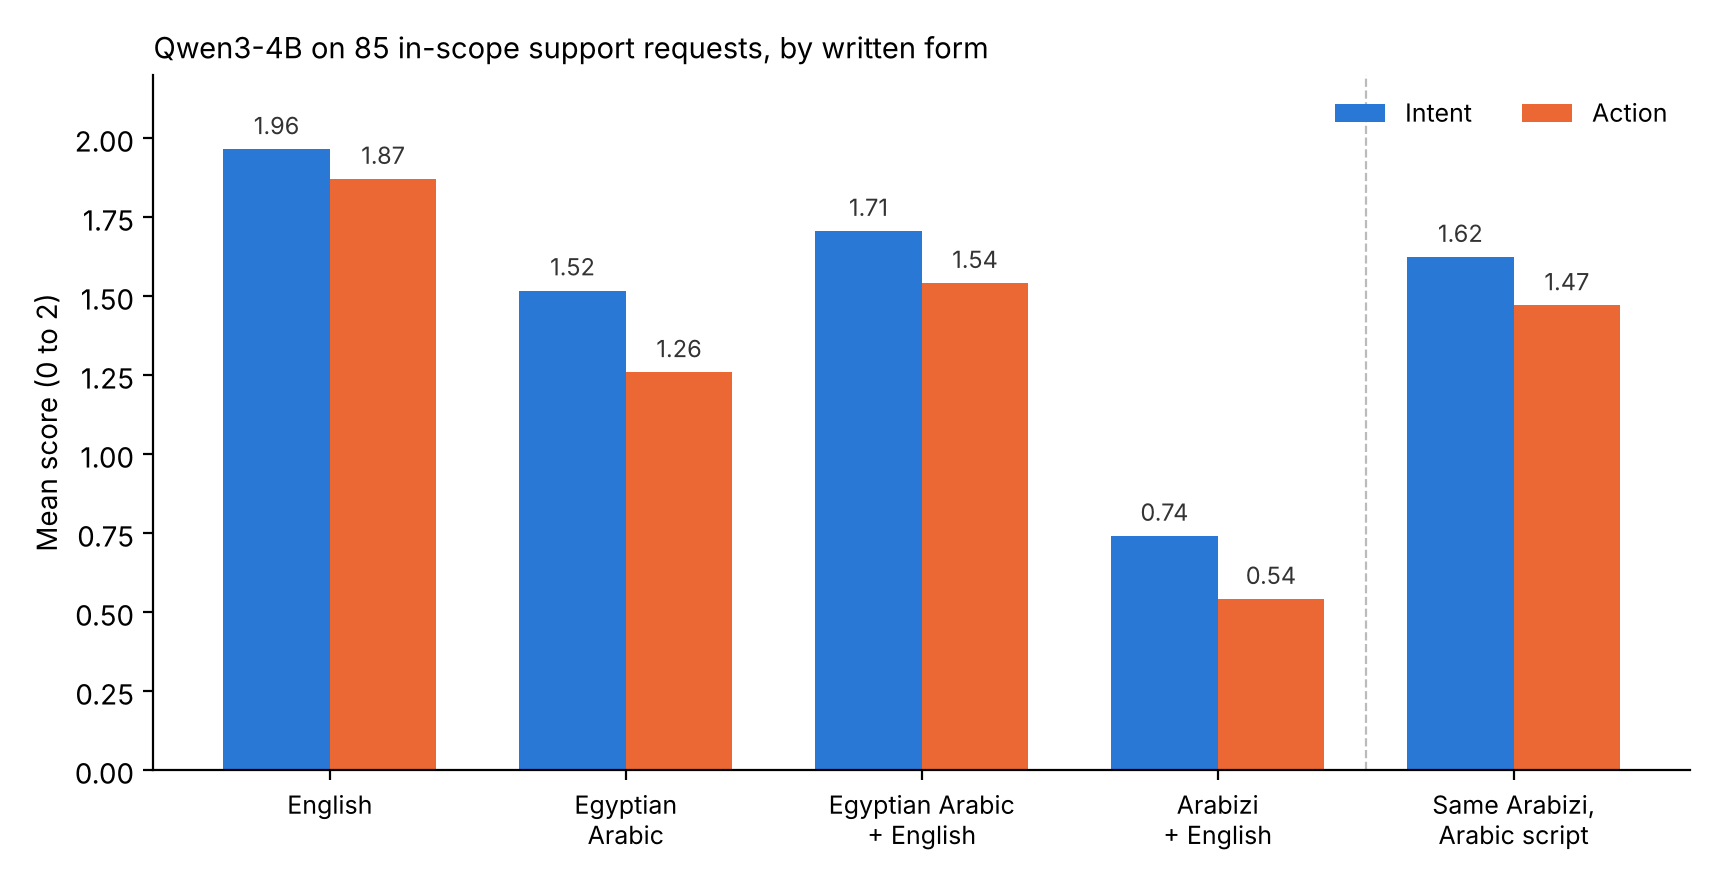
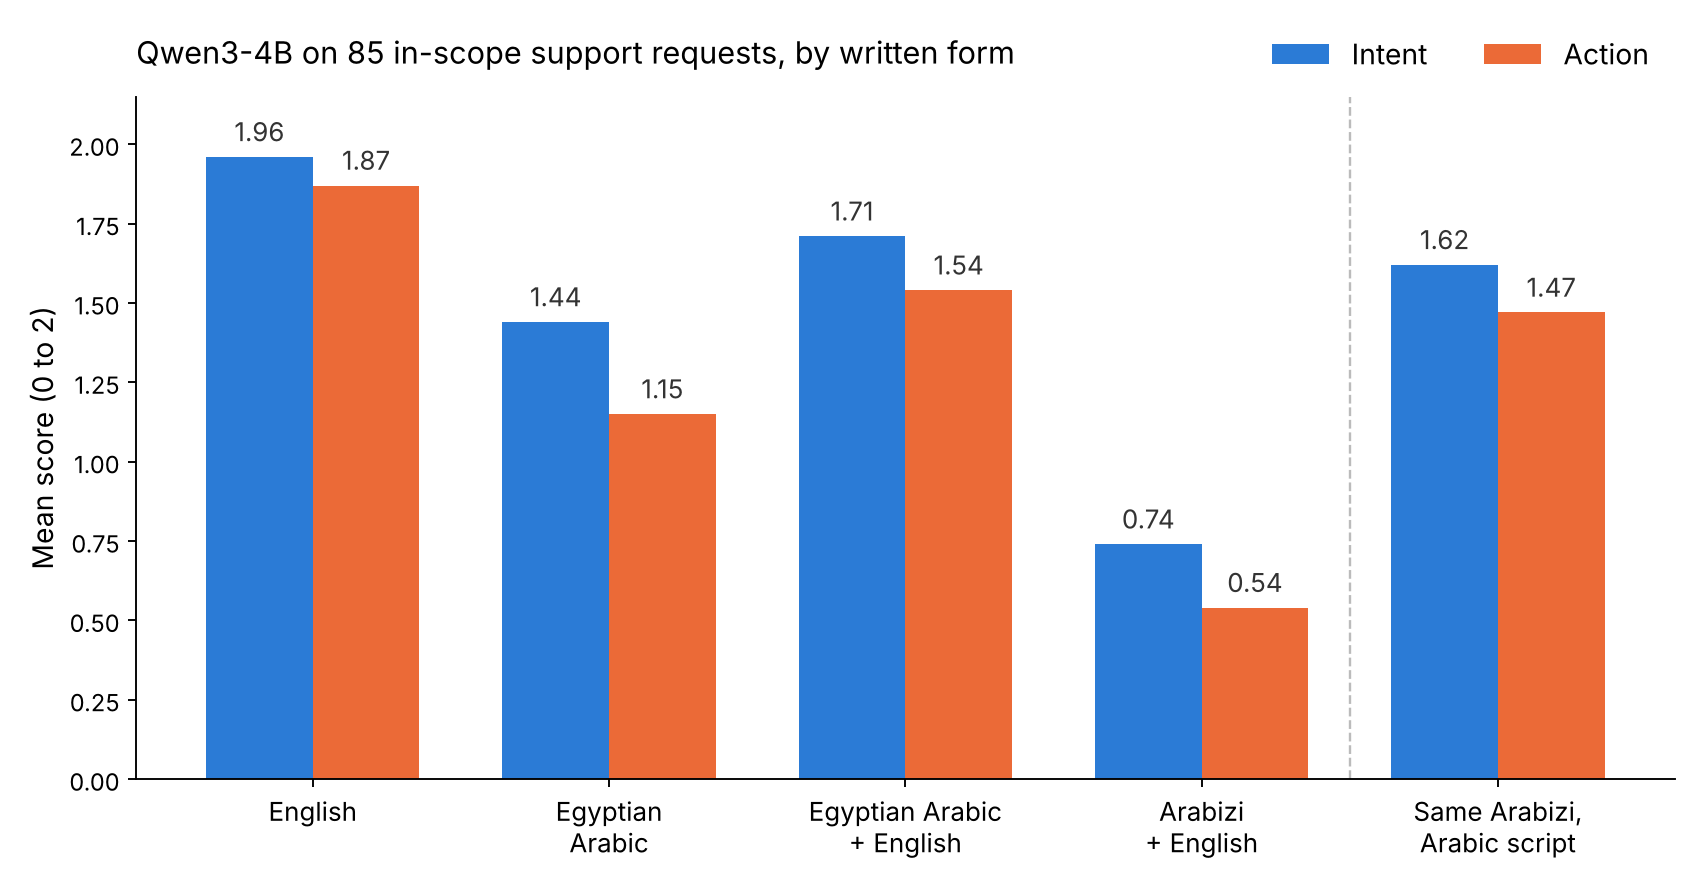
Phase 2: Update results after rewriting 14 Egyptian Arabic prompts; add statistics (v1.2)

diff --git a/README.md b/README.md
@@ -6,7 +6,9 @@
 
 A 400-example benchmark that writes the same 100 customer-support requests in four forms of everyday Egyptian communication, used to test whether a language model keeps the same understanding of a request when only its written form changes. It comes with the responses of [Qwen/Qwen3-4B-Instruct-2507](https://huggingface.co/Qwen/Qwen3-4B-Instruct-2507), their scores, and a follow-up test that rewrites the Arabizi requests in Arabic script.
 
-**Author:** Nouran Mohamed El-Sayed (Ain Shams University, Cairo) · **Created:** October 2026 · **Results last revised:** 18 October 2026
+**Author:** Nouran Mohamed El-Sayed (Ain Shams University, Cairo) · **Created:** October 2026 · **Results last revised:** 15 November 2026
+
+> **Update (15 November 2026).** Fourteen "Egyptian Arabic" prompts had English words in Latin letters (for example "refund", "sync", "tracking"), so that condition was not purely in Arabic script. They were rewritten with the same English words in Arabic letters (ريفاند، سينك، التراكر), run again with the same model and settings, and scored again. The earlier prompts, answers and scores are kept in the `_v1` columns of `data/results_400.csv`. Egyptian Arabic scores fell (in-scope intent from 1.52 to 1.44, action from 1.26 to 1.15); no other condition changed. The difficulty of scenarios S046 and S050 was corrected from `high` to `medium`, and a missing urgency label (E020) in `data/benchmark_400_prompts.csv` was restored.
 
 > **Correction (18 October 2026).** An earlier version of this repository reported results from a spreadsheet in which most model responses could not be traced to the prompts they sat next to: 219 of the 400 responses were exact copies of another row's response, and many belonged to a different prompt. Those results, including an Arabizi intent score of 0.34 and a failure breakdown dominated by "Welsh or Portuguese" and "AWS App Mesh" readings, are withdrawn. All 400 prompts were run again with the same model and settings, and every response was scored again. The tables below come from that run.
 
@@ -27,6 +29,7 @@ The idea grew out of a mentorship with Prof. Ahmed Hassan Yousef (https://schola
 | Egyptian Arabic + English terms | ممكن تبصلي ليه الـ order stuck؟ |
 | Arabizi + English terms | momken tebosly leh el order stuck? |
 
+- **Scripts:** the Egyptian Arabic condition uses Arabic script only; English loanwords are written in Arabic letters, as Egyptians often write them (الأوردر، ريفاند). The other two Egyptian conditions keep English terms in Latin letters.
 - **Scope:** 85 in-scope operational scenarios (orders, delivery, returns, refunds, payments, promotions, pricing, accounts, account security, subscriptions, app sync, rewards and more) and 15 out-of-scope requests (for example legal, medical or creative requests) that a support assistant should not try to fulfil.
 - **Difficulty:** easy, medium and hard, plus edge cases such as typos, missing punctuation, abbreviations, sarcasm, emotional tone, several issues in one message, letter elongation and mixed script.
 - **Gold labels per scenario:** intended issue (`gold_intent`), urgency, the expected next action, and a forbidden assumption the model must not make (for example "Never request the customer's OTP").
@@ -37,17 +40,24 @@ The idea grew out of a mentorship with Prof. Ahmed Hassan Yousef (https://schola
 data/
   benchmark_400_prompts.csv       the 400 prompts and gold labels
   results_400.csv                 prompts + model responses + scores + response type
+                                  (_v1 columns: earlier versions of the 14 rewritten prompts)
   q1_transliteration_sheet.csv    the 100 Arabizi requests rewritten word for word in Arabic script
   q1_script_test_results.csv      the model's answers to those rewritten requests, with scores
+  arabizi_spelling_variants_draft.csv   alternative Arabizi spellings for a planned test (not yet checked)
 notebooks/
   qwen3_4b_egyptian_arabic_evaluation.ipynb   builds the benchmark, runs the model, summarizes scores
+  extensions.ipynb                code for the planned follow-up experiments (see Next steps)
 scripts/
-  summarize.py                    recomputes every number in this README
+  summarize.py                    recomputes every table in this README
+  stats.py                        confidence intervals and paired significance tests
+  make_annotation_sheet.py        builds a blinded sheet for re-scoring a sample
+  agreement.py                    agreement between two sets of scores (Cohen's kappa)
+  make_spelling_variants.py       builds the spelling-variants draft
 figures/
   results_by_condition.png
 ```
 
-To reproduce the tables: `pip install pandas` then `python scripts/summarize.py`.
+To reproduce the tables: `pip install pandas` then `python scripts/summarize.py`. For the intervals and tests: `pip install pandas numpy scipy` then `python scripts/stats.py`.
 
 ## Evaluation setup
 
@@ -69,23 +79,48 @@ Because there is no system prompt, the model has no way of knowing that it is me
 | Condition | Intent | Action | Unsupported actions |
 |---|---|---|---|
 | English | 1.96 | 1.87 | 1 |
-| Egyptian Arabic | 1.52 | 1.26 | 1 |
+| Egyptian Arabic | 1.44 | 1.15 | 1 |
 | Egyptian Arabic + English | 1.71 | 1.54 | 0 |
 | Arabizi + English | 0.74 | 0.54 | 0 |
 | *Arabizi + English, rewritten in Arabic script* | *1.62* | *1.47* | *0* |
 
-In English the model almost always understood the request. In Egyptian Arabic written in Arabic script it dropped, and adding English terms helped a little. In Arabizi it understood far fewer requests: it got the intent fully right for 15 of the 85, and for 37 it got it completely wrong.
+In English the model almost always understood the request. In Egyptian Arabic written fully in Arabic script it dropped, and keeping the English terms in Latin letters helped: intent rose from 1.44 to 1.71. In Arabizi it understood far fewer requests: it got the intent fully right for 15 of the 85, and for 37 it got it completely wrong.
+
+### How sure are these numbers?
+
+Each scenario appears in every condition, so conditions can be compared scenario by scenario. Intervals are 95% bootstrap intervals over the 85 in-scope scenarios; p-values are Wilcoxon signed-rank tests, Holm-corrected within each score.
+
+| Condition | Intent | Action | Intent fully correct |
+|---|---|---|---|
+| English | 1.96 [1.92, 2.00] | 1.87 [1.78, 1.94] | 96% |
+| Egyptian Arabic | 1.44 [1.27, 1.59] | 1.15 [0.96, 1.33] | 60% |
+| Egyptian Arabic + English | 1.71 [1.58, 1.82] | 1.54 [1.39, 1.68] | 76% |
+| Arabizi + English | 0.74 [0.59, 0.91] | 0.54 [0.39, 0.71] | 18% |
+| *Arabizi + English, rewritten in Arabic script* | *1.62 [1.48, 1.75]* | *1.47 [1.31, 1.62]* | *73%* |
+
+- **Arabizi against its Arabic-script rewrite:** intent +0.88 [+0.71, +1.06], higher in 54 scenarios and lower in 2 (p < 0.001); action +0.93 [+0.74, +1.13] (p < 0.001).
+- **The rewrite against the Egyptian Arabic + English condition:** intent differs by 0.08 [−0.01, +0.19] (p = 0.10), so the remaining gap cannot be told apart from zero.
+- **English against Arabizi:** intent +1.22 [+1.06, +1.38] (p < 0.001). English never scored lower than Arabizi on intent.
+- **Egyptian Arabic against Egyptian Arabic + English:** keeping English terms in Latin letters helped, intent +0.27 [+0.12, +0.44] (p = 0.003), action +0.39 [+0.21, +0.56] (p < 0.001).
 
 ### Is the gap about script or dialect?
 
 Each Arabizi request was rewritten word for word in Arabic script, keeping the English words in Latin letters (`data/q1_transliteration_sheet.csv`), and the model was run again with the same settings. The words and the dialect stayed the same; only the script changed.
 
-- Intent rose from 0.74 to 1.62, and action from 0.54 to 1.47. That closes about 90% of the gap to the Arabic-script condition (1.71 and 1.54).
+- Intent rose from 0.74 to 1.62, and action from 0.54 to 1.47. That closes about 90% of the gap to the Egyptian Arabic + English condition (1.71 and 1.54).
 - The rewritten version scored higher on intent in 62 of the 100 scenarios and lower in 2.
-- For 65 scenarios the rewritten request turned out to be identical to the existing "Egyptian Arabic + English" prompt, and with greedy decoding the model gave exactly the same answer to both. On the other 35, where the wording differs slightly, the result holds: intent 0.80 in Arabizi against 1.46 in Arabic script.
+- For 65 scenarios the rewritten request turned out to be identical to the existing "Egyptian Arabic + English" prompt, and with greedy decoding the model gave exactly the same answer to both. On the other 35, where the wording differs slightly, the result holds: intent 0.80 in Arabizi against 1.46 in Arabic script. On the 27 of these that are in scope, intent rose from 0.63 to 1.33 (p = 0.001).
 - Token counts are almost the same (13.8 tokens on average for Arabizi, 13.4 for Arabic script), so Arabizi is not simply split into more pieces.
 
 In this benchmark, then, most of the Arabizi gap comes from the Latin script rather than from the dialect. Reading the answers suggests why: the model often reads Latin-spelled Egyptian words as words of another language.
+
+### English words written in Arabic letters
+
+The 14 rewritten Egyptian Arabic prompts (see the update above) give a small test in the opposite direction: the same English loanwords, first in Latin letters and then in Arabic letters, with the rest of the sentence unchanged. On the 12 in-scope prompts, intent fell from 1.58 to 1.00 and action from 1.33 to 0.58; intent was lower in 6 prompts and higher in 1.
+
+The model read ريفاند (refund) as a replacement, a product or "Re-Validation" (E082, E086, E286), or could not make sense of it (E114). It read فيتشر (feature) as an app called "Vitshir" (E262), التراكر (tracking) as a GPS tracker (E026) and, in an out-of-scope request, السي في (CV) as a legal document (E362). ريسيت (reset) and سينك (sync) were understood (E166, E242).
+
+With 12 prompts this is an observation rather than a measured effect, but it points the same way as the Arabizi result: each kind of word was understood best in the script it is usually written in, Egyptian words in Arabic letters and English words in Latin letters.
 
 ### What the model did with the 100 Arabizi requests
 
@@ -110,7 +145,7 @@ Arabic script had problems of its own, and some of them appear in every Arabic c
 | Condition | Intent | Action | Unsupported actions |
 |---|---|---|---|
 | English | 1.97 | 1.68 | 11 |
-| Egyptian Arabic | 1.54 | 1.12 | 10 |
+| Egyptian Arabic | 1.46 | 1.03 | 10 |
 | Egyptian Arabic + English | 1.74 | 1.38 | 10 |
 | Arabizi + English | 0.82 | 0.47 | 11 |
 | *Arabizi + English, rewritten in Arabic script* | *1.66* | *1.30* | *11* |
@@ -128,10 +163,14 @@ These rows are flagged in the `data_note` column and were not changed, so the sc
 
 ## Next steps
 
+The code for steps 1 and 2, and for the system-prompt and fix experiments below, is in `notebooks/extensions.ipynb`. No results from it are reported yet.
+
 1. **Scale:** run the same benchmark across model sizes and families, to see whether the script gap shrinks with size.
 2. **Where in the model does the gap appear?** Compare how the model represents the Arabizi and Arabic-script versions of the same request.
-3. **Consistency training:** build paired data in which one request appears in many realistic forms and test whether consistency-based training narrows the gap.
-4. **Automatic judges:** measure how well the LLM judge's first-pass scores agree with the hand-checked scores, especially on Arabizi.
+3. **System prompt:** run the benchmark again with the model told it is a support assistant, to see whether the Arabizi gap remains.
+4. **Simple fixes:** test a one-sentence hint about Arabizi, and asking the model to rewrite Arabizi in Arabic script before answering.
+5. **Consistency training:** build paired data in which one request appears in many realistic forms and test whether consistency-based training narrows the gap.
+6. **Scoring reliability:** re-score a blinded sample and measure agreement with the original scores, and with the LLM judge's first pass.
 
 ## Citation
 
